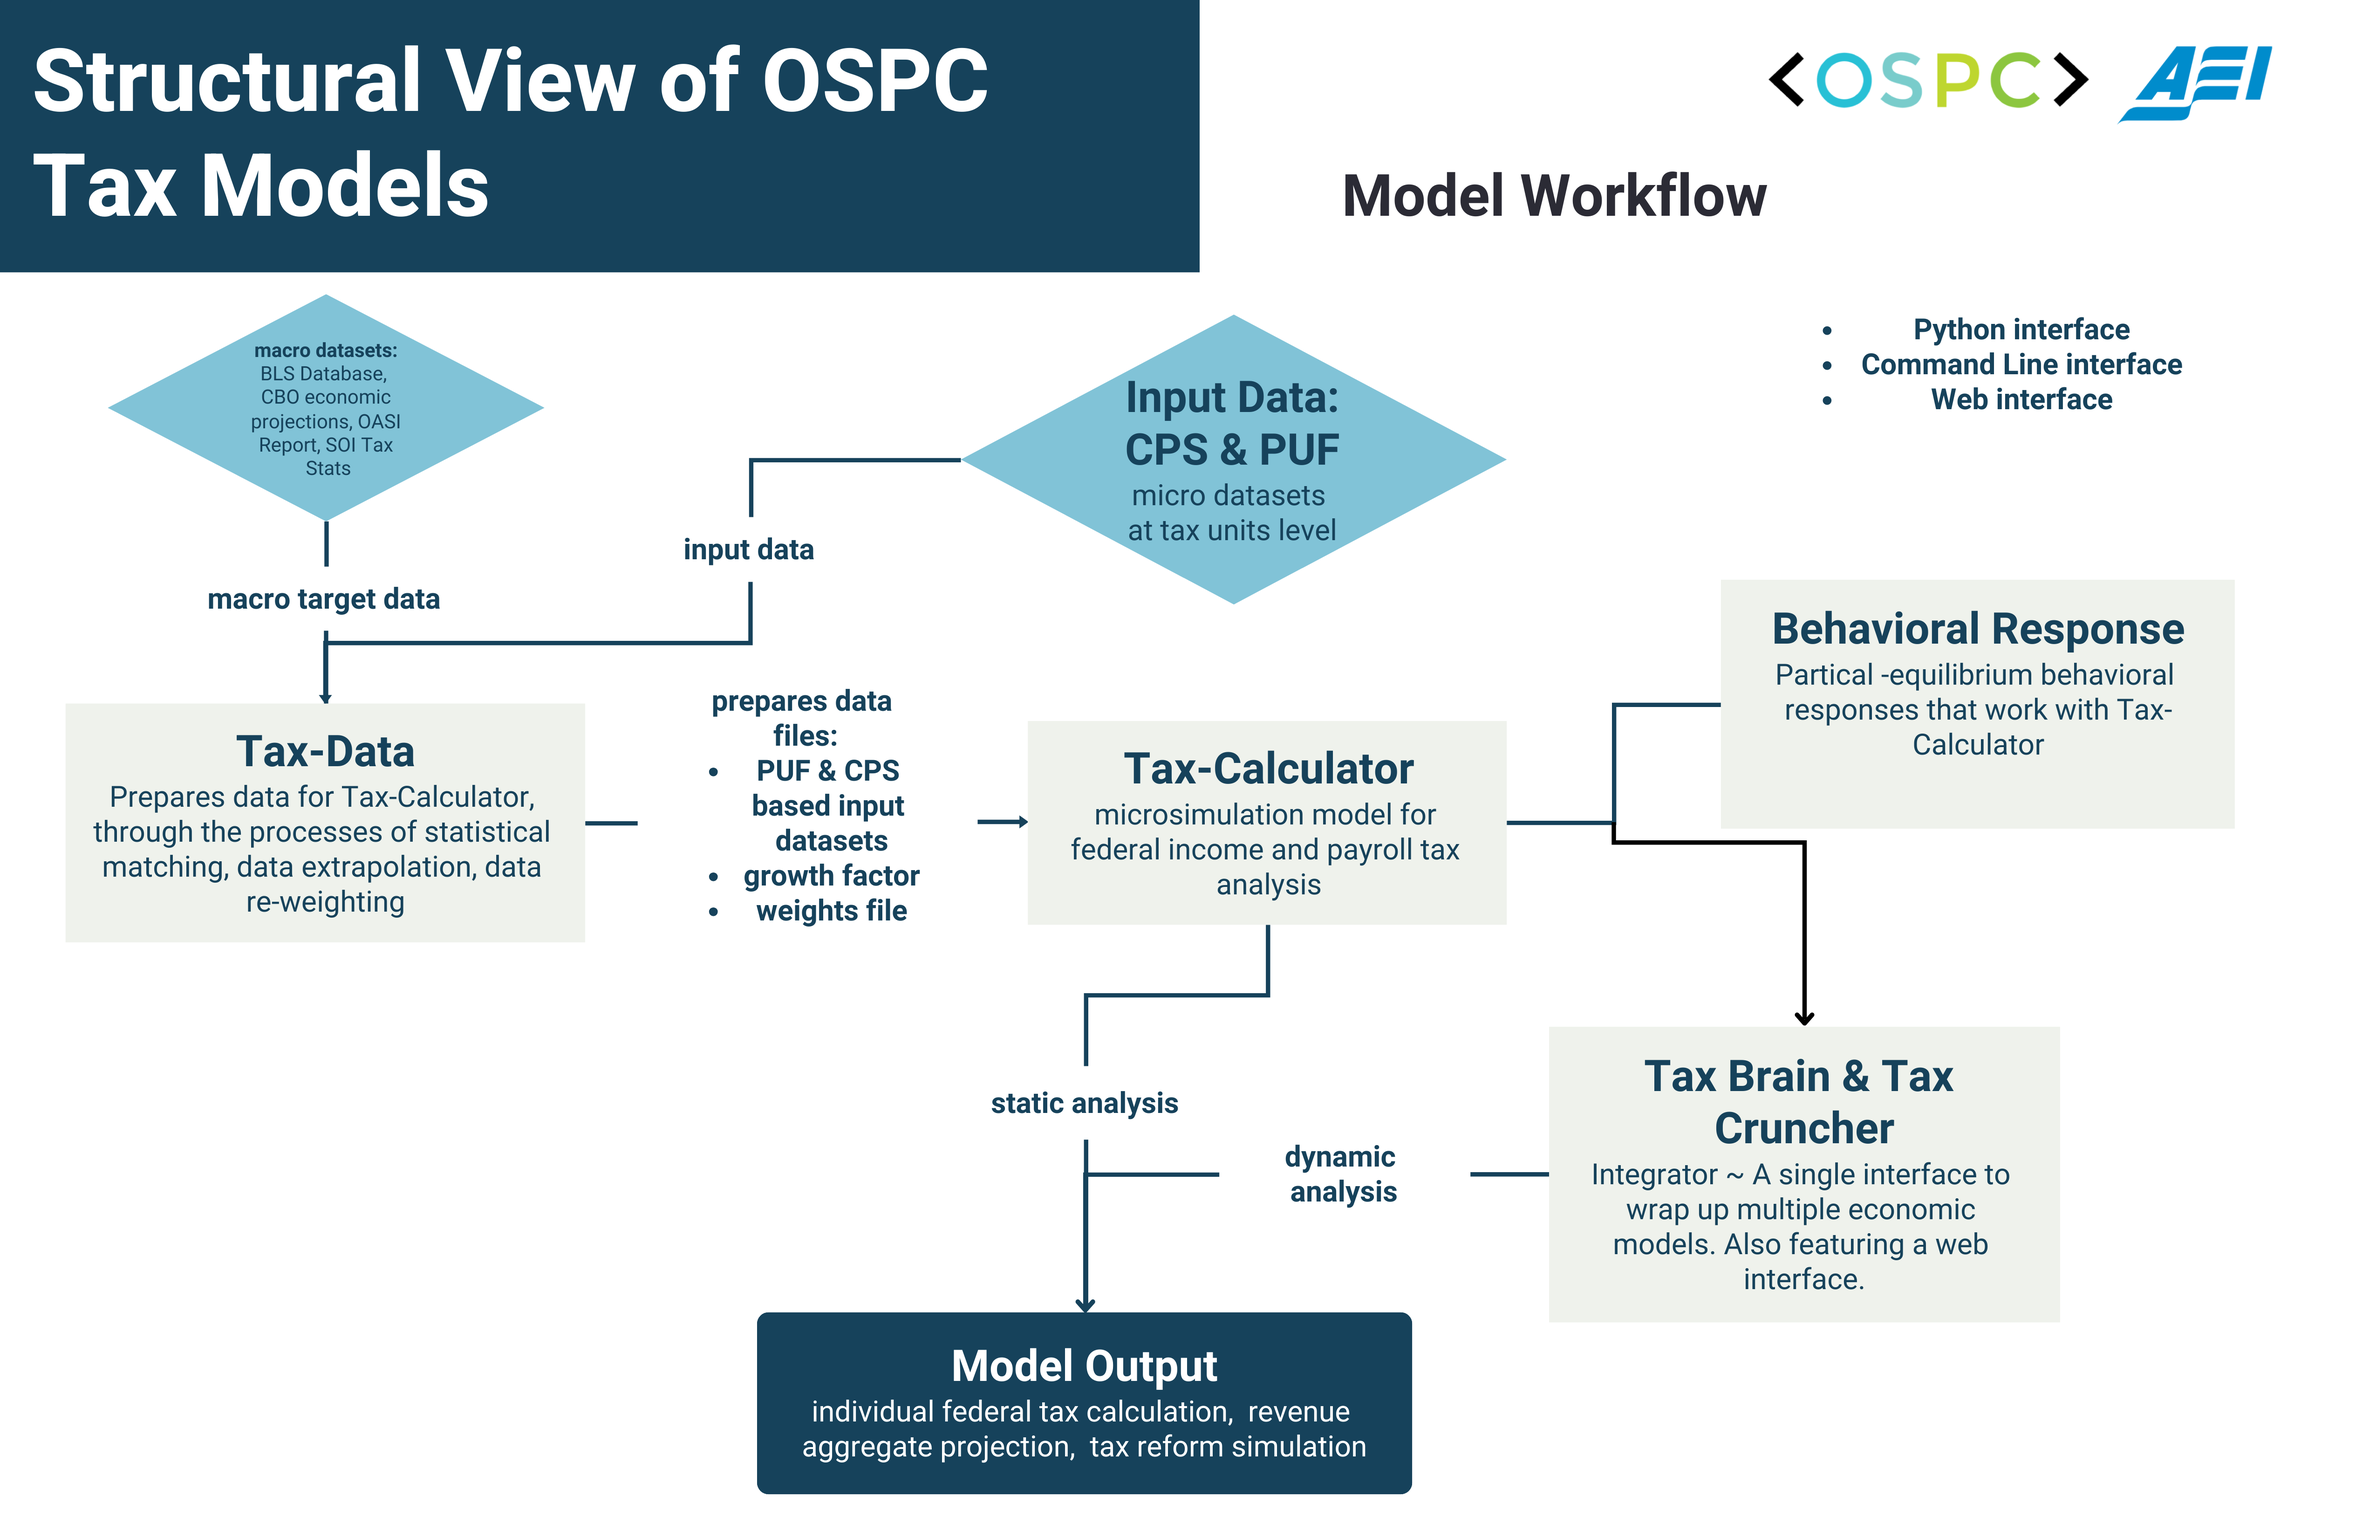
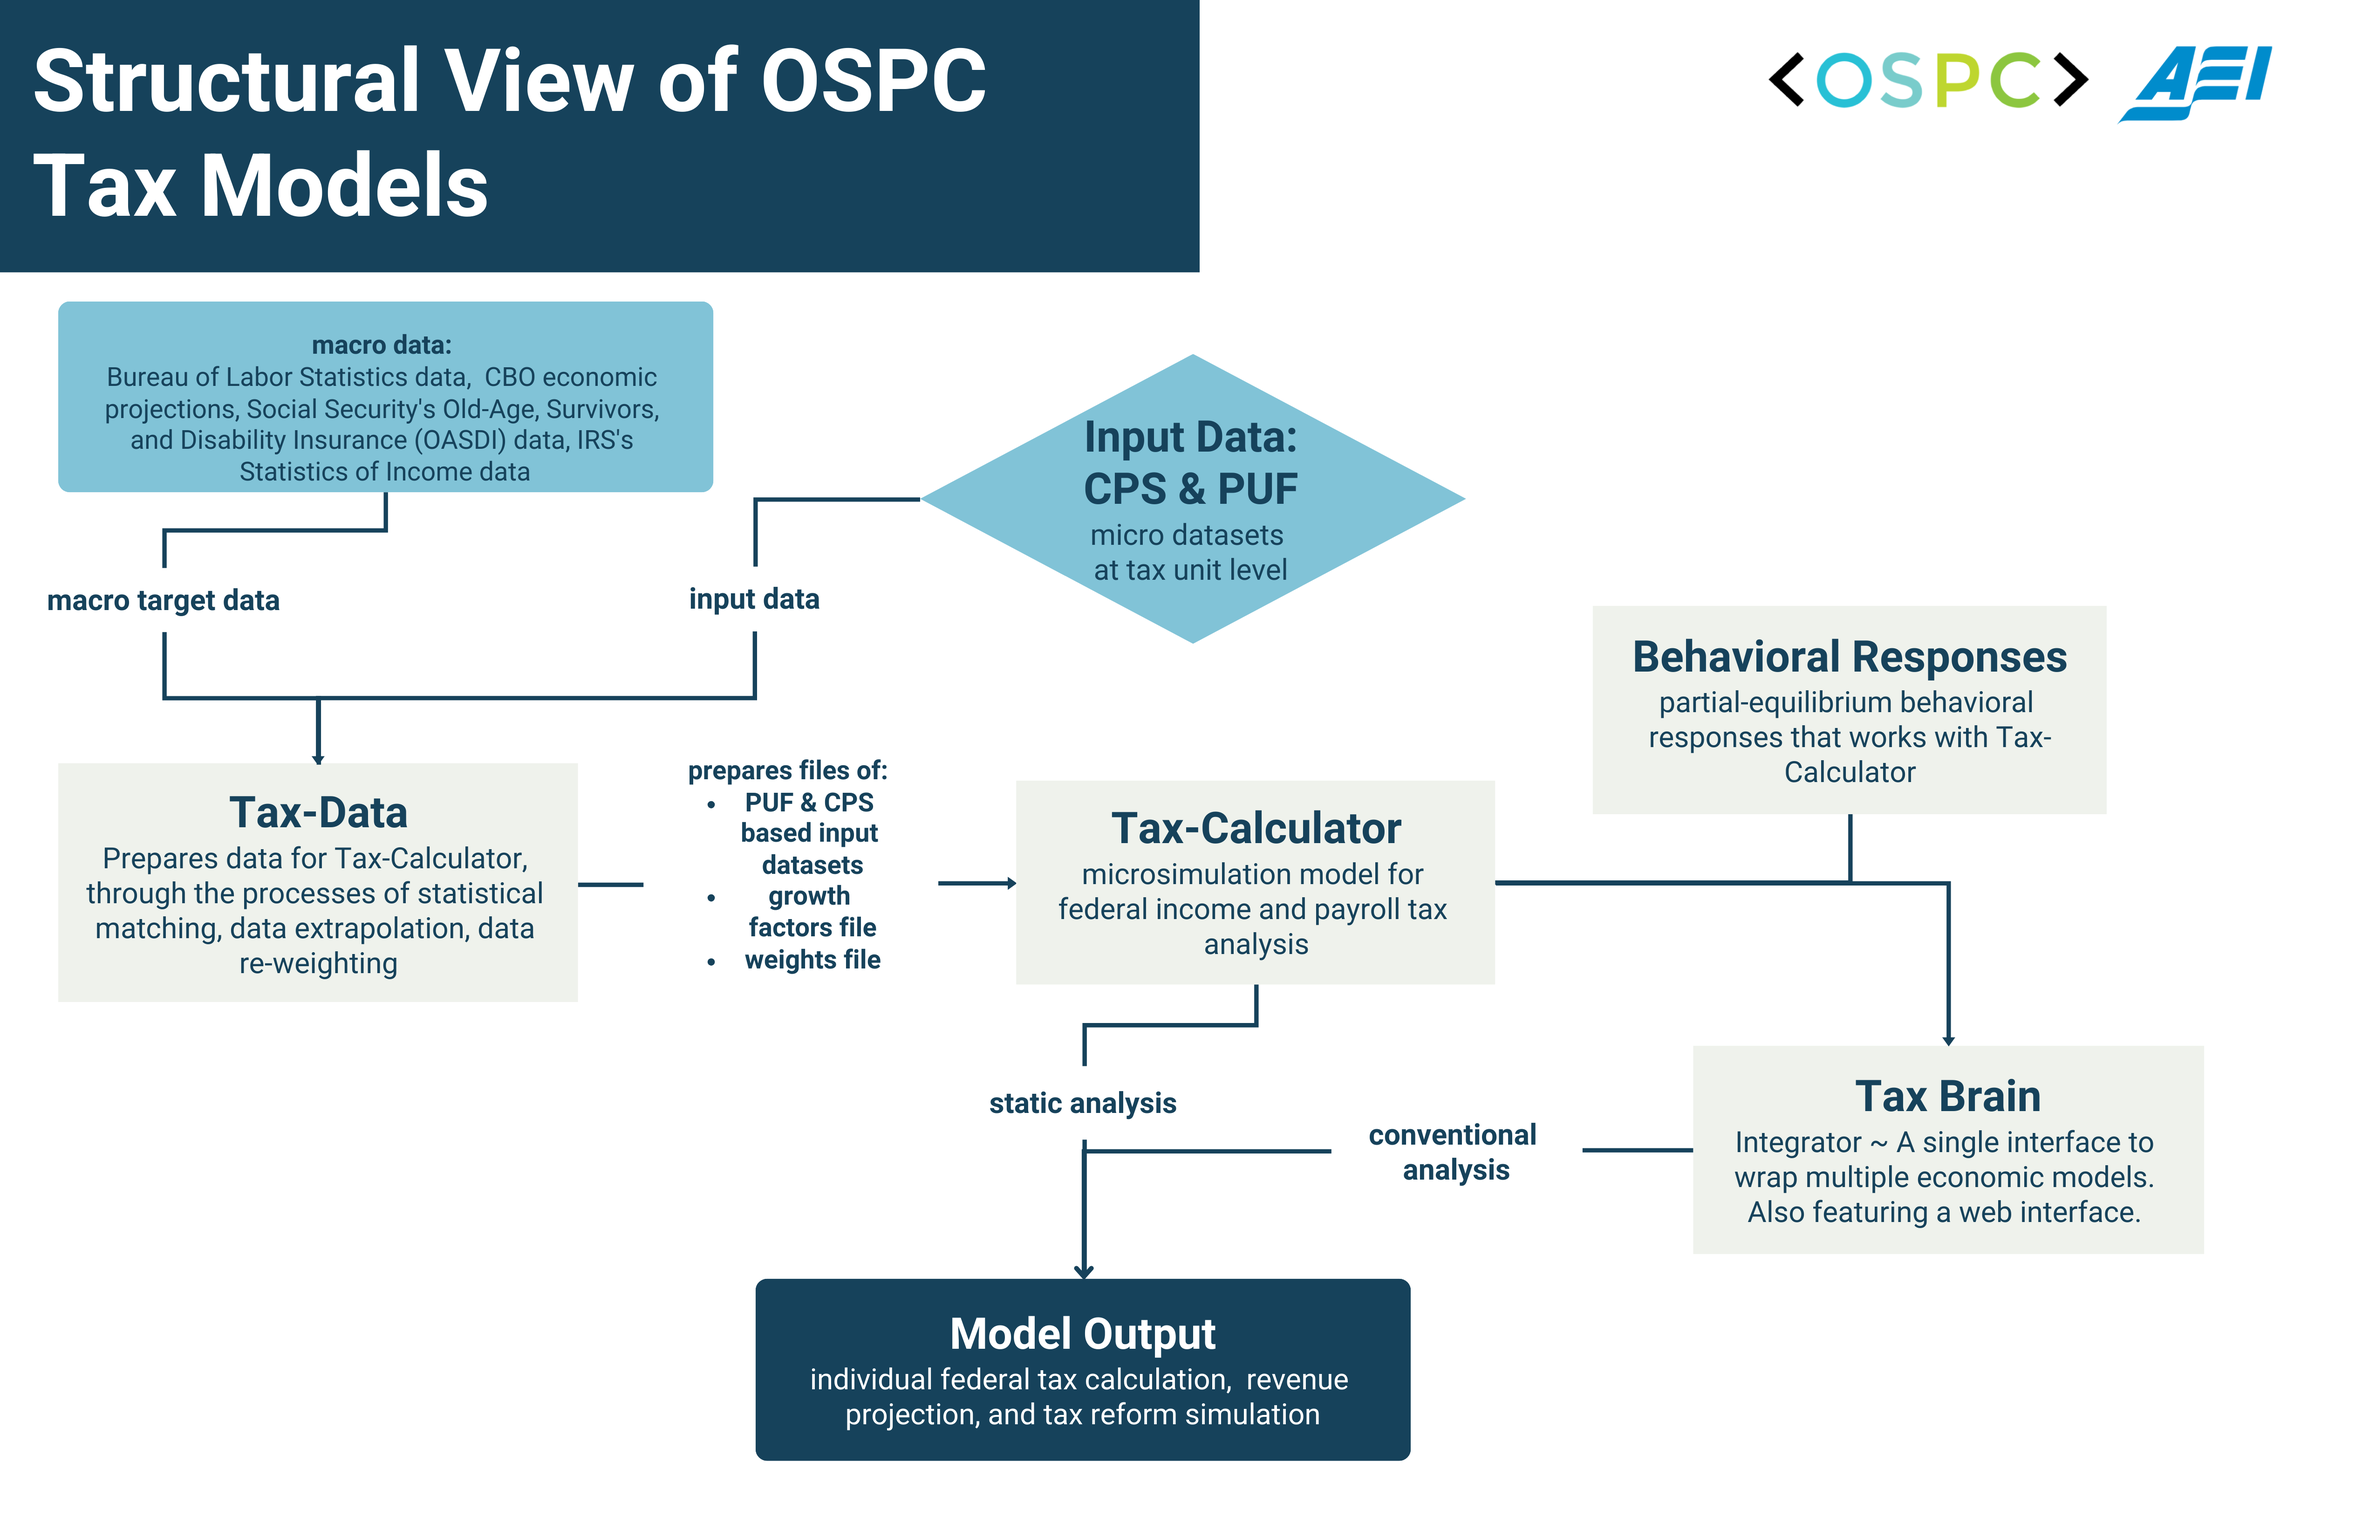
edit update

diff --git a/_includes/header.html b/_includes/header.html
@@ -15,6 +15,7 @@
           <a class="page-link" href="/#about">About</a>
           <a class="page-link" href="/team/">Team</a>
           <a class="page-link" href="/portfolio/">Portfolio</a>
+          <a class="page-link" href="/taxmodels/">Tax-Models</a>
           <a class="page-link" href="/newsletter/">News-Archieve</a>
           <a class="page-link" href="/donate/">Donate</a>
       </div>

diff --git a/taxmodels.md b/taxmodels.md
@@ -8,7 +8,7 @@ order: 3
 <h2 align="center"><b>Workflow of the OSPC models</b></h2>
 <br>
 
-<div style="text-align:justify">OSPC develops a family of tax models, consisted of <a style="display:inline-block" href="https://github.com/PSLmodels/Tax-Calculator">Tax-Calculator</a>, <a style="display:inline-block" href="https://github.com/PSLmodels/taxdata">Tax-Data</a>, <a style="display:inline-block" href="https://github.com/PSLmodels/Behavioral-Responses"> Behavior Response</a>, <a style="display:inline-block" href="https://github.com/PSLmodels/Tax-Brain"> Tax-Brain</a> and <a style="display:inline-block" href="https://github.com/PSLmodels/Tax-Cruncher">Tax-Cruncher</a>. All of the models are open source. The flowchart explains how models interact with each other. </div>
+<div style="text-align:justify">OSPC develops a family of tax models, consisting of <a style="display:inline-block" href="https://github.com/PSLmodels/Tax-Calculator">Tax-Calculator</a>, <a style="display:inline-block" href="https://github.com/PSLmodels/taxdata">Tax-Data</a>, <a style="display:inline-block" href="https://github.com/PSLmodels/Behavioral-Responses"> Behavioral Responses</a>, and <a style="display:inline-block" href="https://github.com/PSLmodels/Tax-Brain"> Tax-Brain</a>. All of the models are open source. The flowchart explains how models interact with each other. </div>
 <br>
 
 <center>
@@ -16,32 +16,31 @@ order: 3
 <br> <br>
 
 <div style="text-align:justify">
-Current Population Survey (CPS) and IRS Public Use File (PUF) are the base input mirco databases for OSPC tax models. Tax-data produces the input micro data files for Tax-Calculator, by conducting a series of data preparation procedures upon the original CPS and PUF data. These procedures include: the statistical matching between the CPS and PUF data to extrpolate the information from both data files; data extrapolation to forcast base year micro datasets into the future years, by growth rate calculated from selected marcro targets; and re-weighting to make adjustments upon the desired macro targets (return targets; aggregate targets; aggregate by income class targets) so their aggregates will stay on track. Marco targets are referenced from governmental published tax statistics, including: SOI Estimate, CBO projections, OASDI Report and BLS Database. Eventually, Tax-Data produces two processed CPS and PUF based micro-datasets, growth factor file and weights file.  
+The Current Population Survey (CPS) and IRS Public Use File (PUF) are the base data sets for the OSPC tax models. Tax-data produces the input micro data files for Tax-Calculator, by conducting a series of data preparation procedures upon the original CPS and PUF data. These procedures include the statistical matching between CPS and PUF data; data extrapolation to forecast base year micro datasets into the future years; and re-weighting to hit the desired macro targets. Macro targets are based on governmental data, including: IRS Statistics of Income data, CBO projections, OASDI Trustees Report and BLS data. Tax-Data produces two processed CPS and PUF based micro-datasets, a growth factor file and a weights file.  
 <br><br>
-Tax-Calculator, the micro-simulation model, then reads the processed CPS and PUF micro datasets from Tax-Data, to perform income tax and paryroll tax analysis. This can be used for tax revenue projection of future years, distrubutional anlysis of tax across different income groups and analysis of the tax reform. The model can also be used as a calcualtor for any self defined <a style="display:inline-block" href="https://taxcalc.pslmodels.org/guide/input_vars.html">Input</a> datasets to produce <a style="display:inline-block" href="https://taxcalc.pslmodels.org/guide/output_vars.html">Output</a> of tax liabilities along with other intermediate variables. Users can also change the <a style="display:inline-block" href="https://taxcalc.pslmodels.org/guide/policy_params.html"> Policy Parameters </a> to perform tax reform simulation. Here are some <a style="display:inline-block" href="https://taxcalc.pslmodels.org/recipes/recipe00.html">Receipes</a>. By interacting with the Behavior-Response package, Tax-Calculator is also able to conduct dynamic analysis considering the behavior responses arise from the policy reform. Model is under the assumption of partial equilibrium elasticity.
+Tax-Calculator, the micro-simulation model, uses the processed CPS and PUF micro datasets from Tax-Data, to perform income tax and payroll tax analysis. Tax-Calculator can be used for revenue estimation, individual tax calculation, and distributional analysis. Users can also change <a style="display:inline-block" href="https://taxcalc.pslmodels.org/guide/policy_params.html"> Policy Parameters </a> to perform tax reform simulations. The Behavior-Responses package allows a user of Tax-Calculator to conduct conventional analysis, which considers the behavior responses that arise from changes to policy. 
 <br><br>
-We are also working on a new <a style="display:inline-block" href="https://github.com/bodiyang/Taxcalc-Payroll">Taxcalc-Payroll</a>. The model is developed to focus on payroll tax, with new features of spliting of the employer side and employee side payroll tax, employer side payroll tax offset function. It is expected to be lauched soon.</div>
-<br>
-<p align="justify"> Tax-Brain and Tax-Cruncher serve as an integrator to wrap up multiple models, a single interface to access Tax-Calculator and Behavior Response. They provide users with many useful tools like weighted total calcuation, making distribution table, difference plots, etc. Models can be run through Python API or the command line interface (CLI). There is also an online web application for the public with less programming experience. </p>
+<p align="justify"> Tax-Brain serves as an integrator to wrap multiple models. It uses a single interface to access Tax-Calculator and Behavior Responses. It provides users with many useful tools and can be run through the Python API or the command line interface (CLI). There is also an online web application for the users with less programming experience. </p>
 <br>
 <div style="text-align:justify">
-Scholars inside and outside of AEI has used the model for their research (<a style="display:inline-block" href="https://github.com/PSLmodels/Tax-Calculator/blob/master/docs/use_cases.md">use cases</a>).
+Scholars inside and outside of AEI have used the model for their research (<a style="display:inline-block" href="https://github.com/PSLmodels/Tax-Calculator/blob/master/docs/use_cases.md">use cases</a>).
 </div>
 
 <br>
 <h2 align="center"><b>Model Performance</b></h2>
 <br>
-<p align="justify"> To ensure the model's perfomance, we have regular valdiation work to compare OSPC tax models with the external sources, publications from governmanetal agencies and modelling results from other research organiztions. </p>
+<div align="justify"> We regularly validate OSPC tax models in two ways. One method validates calculations at the micro level by looking at the individual tax units. We test against <a style="display:inline-block" href="https://www.nber.org/research/data/taxsim">NBER TAXSIM model</a>, comparing calculated tax liability and the intermediate variables like taxable income and AMT liabilities, record by record. This process helps both OSPC and NBER TAXSIM to identify modelling differences and make improvements.
+</div>
+<br><br>
+<center>
 <img src="/images/performancechart.png" alt="OSPC" style="max-width:1000px; width:100%">
-
-<div align="justify"> We conduct the validation via two methods. One method is the micro level validation by looking at the individual tax units. We have tested against <a style="display:inline-block" href="https://www.nber.org/research/data/taxsim">NBER TAXSIM model</a>, comparing the calculated tax liability (along with the intermediate variables like taxable income, AMT liabities etc.), record by record. The testing suites cover records from differenct income background over the past years. This process has helped the both side of OSPC and NBER TAXSIM to identify the modelling diffeneces and make the corresponding improvements. Once difference is found in <a style="display:inline-block" href="https://github.com/PSLmodels/Tax-Calculator/tree/master/taxcalc/validation"> validatoin </a>, we will fix it if it is bug, or document the difference if it coming from the different assumptions of the models and not having large impacts. So far, tax liability calculation from OSPC model and TAXSIM are bascially in the same line.
 <br><br>
-The other method is from the macro level by looking at the model produced economic aggregate, comparing the value of projected items with the Congressional Budget Office <a style="display:inline-block" href="https://www.cbo.gov/data/budget-economic-data">10-year economic & revenue projections</a>. Items considered for comparison include the calculation of AGI, calculation of income tax liability and share of AGI by income groups. The chart below is the result of some example items.
+<div align="justify">
+The second method validates the model at a macro level. This method compares the value of projected aggregates from Tax-Calculator with the Congressional Budget Office's <a style="display:inline-block" href="https://www.cbo.gov/data/budget-economic-data">10-year economic & revenue projections</a>. Items considered for comparison include the calculation of AGI, calculation of income tax liability, and share of AGI by income groups. The chart below shows macro validation for some example items.
 </div> 
-<br><br>
+<br>
+<center>
 <img src="/images/validationchart.png" alt="OSPC" style="max-width:1000px; width:100%">
 <br>
-<p align="justify"> OSPC modelling results match well with CBO's. For example, many key items like Total AGI showing differences less than 1.5% for the next 10 years projections. Please refer to this <a style="display:inline-block" href="https://github.com/PSLmodels/taxdata/tree/master/history/reports">latest report</a> for full list of comparisons with CBO. Generally speaking, our PUF based projection is closer to the CBO projections. Differences may come from micro data selection or different modelling assumptions and methods. 
-<br><br>
-The valdation work is kept tracked by economists from NBER and CBO as well. The open source nature has largely enchanced the model's reference. Other research organizations has also conducted comparison work with OSPC tax models. For example, Tax Foundation's model indicates the difference of Total AGI projections is around 2~3% till 2031.
+<p align="justify"> Many key items in Tax-Calculator like Total AGI show differences of less than 1.5% to CBO over the next 10 years. Please refer to this <a style="display:inline-block" href="https://github.com/PSLmodels/taxdata/tree/master/history/reports">latest report</a> for full list of comparisons with CBO. 
 </p> 
